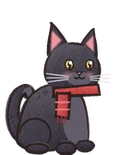
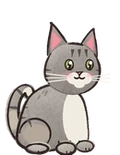
CatCafe: the regulars' new names and Marshal's new look (EN/FR)
Pepper is Marshal (a long-haired grey tabby now, after Jay's cat; the
picture is the game's regulars/pepper.png, ?v=2), Mochi is Willow and Sir
Pounce is Oliver, as in the game (jaylapse/Bakery 0.13). French: Willow is
a girl, so "un peu endormie" and "une chatte blanche".

diff --git a/fr/catcafe/index.html b/fr/catcafe/index.html
@@ -67,7 +67,7 @@
 
 <section class="section" id="regulars">
 	<div class="section-head"><h2>Les habitués</h2><p>Certains chats reviennent tous les jours. Chacun a son préféré.</p></div>
-	<div class="cast"><figure><img src="/catcafe/img/regular-pepper.webp" width="120" height="155" loading="lazy" alt="Pepper, un chat noir avec un foulard rouge"><figcaption><b>Pepper</b><span>Habitué du matin qui ne saute jamais son croissant.</span></figcaption></figure><figure><img src="/catcafe/img/regular-earl-grey.webp" width="120" height="155" loading="lazy" alt="Earl Grey, un chat tigré gris avec un haut-de-forme et un monocle"><figcaption><b>Earl Grey</b><span>Très distingué. Soutient que le café n’est que du thé déguisé.</span></figcaption></figure><figure><img src="/catcafe/img/regular-mochi.webp" width="120" height="155" loading="lazy" alt="Mochi, un chat blanc avec un nœud rose"><figcaption><b>Mochi</b><span>Artiste toujours un peu endormi qui dessine les autres clients.</span></figcaption></figure><figure><img src="/catcafe/img/regular-marmalade.webp" width="120" height="155" loading="lazy" alt="Marmalade, un chat roux avec une couronne de fleurs"><figcaption><b>Marmalade</b><span>Placoteux roux qui a une opinion sur tout.</span></figcaption></figure><figure><img src="/catcafe/img/regular-sir-pounce.webp" width="120" height="155" loading="lazy" alt="Sir Pounce, un chat noir et blanc avec un nœud papillon rouge"><figcaption><b>Sir Pounce</b><span>Chevalier à la retraite. Donne de gros pourboires, mais déteste attendre.</span></figcaption></figure><figure><img src="/catcafe/img/regular-captain-whiskers.webp" width="120" height="155" loading="lazy" alt="Captain Whiskers, un chat brun avec une casquette de capitaine et un bandeau sur l’œil"><figcaption><b>Captain Whiskers</b><span>Capitaine de bateau à la retraite qui raconte la même histoire à chaque visite.</span></figcaption></figure></div>
+	<div class="cast"><figure><img src="/catcafe/img/regular-pepper.webp?v=2" width="120" height="155" loading="lazy" alt="Marshal, un chat tigré gris à poil long"><figcaption><b>Marshal</b><span>Habitué du matin qui ne saute jamais son croissant.</span></figcaption></figure><figure><img src="/catcafe/img/regular-earl-grey.webp" width="120" height="155" loading="lazy" alt="Earl Grey, un chat tigré gris avec un haut-de-forme et un monocle"><figcaption><b>Earl Grey</b><span>Très distingué. Soutient que le café n’est que du thé déguisé.</span></figcaption></figure><figure><img src="/catcafe/img/regular-mochi.webp" width="120" height="155" loading="lazy" alt="Willow, une chatte blanche avec un nœud rose"><figcaption><b>Willow</b><span>Artiste toujours un peu endormie qui dessine les autres clients.</span></figcaption></figure><figure><img src="/catcafe/img/regular-marmalade.webp" width="120" height="155" loading="lazy" alt="Marmalade, un chat roux avec une couronne de fleurs"><figcaption><b>Marmalade</b><span>Placoteux roux qui a une opinion sur tout.</span></figcaption></figure><figure><img src="/catcafe/img/regular-sir-pounce.webp" width="120" height="155" loading="lazy" alt="Oliver, un chat noir et blanc avec un nœud papillon rouge"><figcaption><b>Oliver</b><span>Chevalier à la retraite. Donne de gros pourboires, mais déteste attendre.</span></figcaption></figure><figure><img src="/catcafe/img/regular-captain-whiskers.webp" width="120" height="155" loading="lazy" alt="Captain Whiskers, un chat brun avec une casquette de capitaine et un bandeau sur l’œil"><figcaption><b>Captain Whiskers</b><span>Capitaine de bateau à la retraite qui raconte la même histoire à chaque visite.</span></figcaption></figure></div>
 </section>
 
 <section class="section">

diff --git a/catcafe/index.html b/catcafe/index.html
@@ -67,7 +67,7 @@
 
 <section class="section" id="regulars">
 	<div class="section-head"><h2>Meet the regulars</h2><p>Some cats come back every day. Each one has a favourite.</p></div>
-	<div class="cast"><figure><img src="/catcafe/img/regular-pepper.webp" width="120" height="155" loading="lazy" alt="Pepper, a black cat in a red scarf"><figcaption><b>Pepper</b><span>Morning regular who never skips a croissant.</span></figcaption></figure><figure><img src="/catcafe/img/regular-earl-grey.webp" width="120" height="155" loading="lazy" alt="Earl Grey, a grey tabby in a top hat and monocle"><figcaption><b>Earl Grey</b><span>Very proper. Insists coffee is just tea in disguise.</span></figcaption></figure><figure><img src="/catcafe/img/regular-mochi.webp" width="120" height="155" loading="lazy" alt="Mochi, a white cat with a pink bow"><figcaption><b>Mochi</b><span>Sleepy artist who sketches the other customers.</span></figcaption></figure><figure><img src="/catcafe/img/regular-marmalade.webp" width="120" height="155" loading="lazy" alt="Marmalade, a ginger cat in a flower crown"><figcaption><b>Marmalade</b><span>Ginger gossip with an opinion on everything.</span></figcaption></figure><figure><img src="/catcafe/img/regular-sir-pounce.webp" width="120" height="155" loading="lazy" alt="Sir Pounce, a black-and-white cat in a red bow tie"><figcaption><b>Sir Pounce</b><span>Retired knight. Tips grandly but hates waiting.</span></figcaption></figure><figure><img src="/catcafe/img/regular-captain-whiskers.webp" width="120" height="155" loading="lazy" alt="Captain Whiskers, a brown cat in a captain’s hat and eye patch"><figcaption><b>Captain Whiskers</b><span>Retired sea captain who tells the same story every visit.</span></figcaption></figure></div>
+	<div class="cast"><figure><img src="/catcafe/img/regular-pepper.webp?v=2" width="120" height="155" loading="lazy" alt="Marshal, a long-haired grey tabby"><figcaption><b>Marshal</b><span>Morning regular who never skips a croissant.</span></figcaption></figure><figure><img src="/catcafe/img/regular-earl-grey.webp" width="120" height="155" loading="lazy" alt="Earl Grey, a grey tabby in a top hat and monocle"><figcaption><b>Earl Grey</b><span>Very proper. Insists coffee is just tea in disguise.</span></figcaption></figure><figure><img src="/catcafe/img/regular-mochi.webp" width="120" height="155" loading="lazy" alt="Willow, a white cat with a pink bow"><figcaption><b>Willow</b><span>Sleepy artist who sketches the other customers.</span></figcaption></figure><figure><img src="/catcafe/img/regular-marmalade.webp" width="120" height="155" loading="lazy" alt="Marmalade, a ginger cat in a flower crown"><figcaption><b>Marmalade</b><span>Ginger gossip with an opinion on everything.</span></figcaption></figure><figure><img src="/catcafe/img/regular-sir-pounce.webp" width="120" height="155" loading="lazy" alt="Oliver, a black-and-white cat in a red bow tie"><figcaption><b>Oliver</b><span>Retired knight. Tips grandly but hates waiting.</span></figcaption></figure><figure><img src="/catcafe/img/regular-captain-whiskers.webp" width="120" height="155" loading="lazy" alt="Captain Whiskers, a brown cat in a captain’s hat and eye patch"><figcaption><b>Captain Whiskers</b><span>Retired sea captain who tells the same story every visit.</span></figcaption></figure></div>
 </section>
 
 <section class="section">
